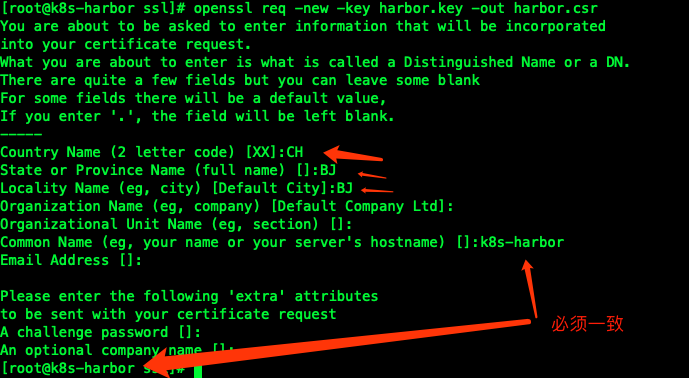
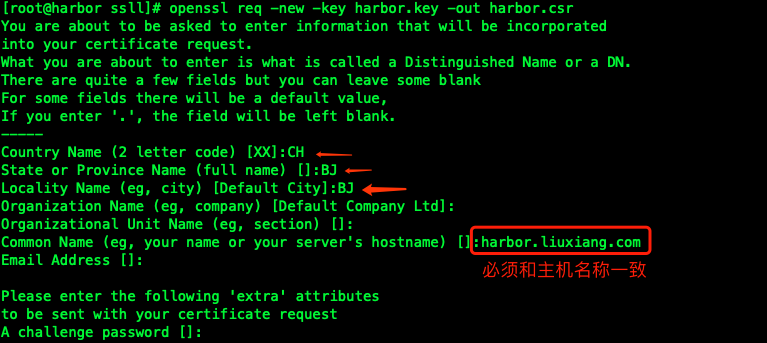
harbor https

Changed region(s): [[0.0, 0.0, 0.9144, 1.0]]

diff --git a/60.SpringCloud-Harbro.md b/60.SpringCloud-Harbro.md
@@ -11,51 +11,51 @@
 4.部署简单:提供在线和离线两种安装工具
 5.LDAP:Harbor 可以集成企业内部已有的 AD/LDAP，用于鉴权认证管理
 ```
-#### 4、在k8s-harbor主机为harbor签发证书
+#### 4、在harbor.liuxiang.com主机为harbor签发证书
 ##### 4.1 生成 ca 证书:
 ```shell script
-[root@k8s-harbor ~]# mkdir /data/ssl -p
-[root@k8s-harbor ~]# cd /data/ssl/
+[root@harbor ~]# mkdir /data/ssl -p
+[root@harbor ~]# cd /data/ssl/
 ```
 ```shell script
 #生成一个 3072 位的 key，也就是私钥
-[root@k8s-harbor ssl]# openssl genrsa -out ca.key 3072
+[root@harbor ssl]# openssl genrsa -out ca.key 3072
 ```
 ```shell script
 #生成一个数字证书 ca.pem，3650 表示证书的有效时间是 10 年，按箭头提示填写即可，没有箭头标注的为空
-[root@k8s-harbor ssl]# openssl req -new -x509 -days 3650 -key ca.key -out ca.pem
+[root@harbor ssl]# openssl req -new -x509 -days 3650 -key ca.key -out ca.pem
 ```
 ![image](https://github.com/498946975/DevOps/blob/master/images/springcloud12.png)
 ##### 4.2 生成域名的证书:
 ```shell script
 #生成一个 3072 位的 key，也就是私钥
-[root@k8s-harbor ssl]# openssl genrsa -out harbor.key 3072
+[root@harbor ssl]# openssl genrsa -out harbor.key 3072
 ```
 ```shell script
 #生成一个证书请求，一会签发证书时需要的，标箭头的按提示填写，没有箭头标注的为空，主机名称必须和安装harbor的主机名称一致
-[root@k8s-harbor ssl]# openssl req -new -key harbor.key -out harbor.csr
+[root@harbor ssl]# openssl req -new -key harbor.key -out harbor.csr
 ```
 ![image](https://github.com/498946975/DevOps/blob/master/images/springcloud13.png)
 ##### 4.3 签发证书
 ```shell script
-[root@k8s-harbor ssl]# openssl x509 -req -in harbor.csr -CA ca.pem -CAkey ca.key -CAcreateserial -out harbor.pem -days 3650 
+[root@harbor ssl]# openssl x509 -req -in harbor.csr -CA ca.pem -CAkey ca.key -CAcreateserial -out harbor.pem -days 3650 
 Signature ok
-subject=/C=CH/ST=BJ/L=BJ/O=Default Company Ltd/CN=k8s-harbor
+subject=/C=CH/ST=BJ/L=BJ/O=Default Company Ltd/CN=harbor.liuxiang.com
 Getting CA Private Key
 您在 /var/spool/mail/root 中有新邮件
-[root@k8s-harbor ssl]# 
+[root@harbor ssl]# 
 ```
 #### 5、查看证书是否有效
 ```shell script
-[root@k8s-harbor ssl]# openssl x509 -noout -text -in harbor.pem
+[root@harbor ssl]# openssl x509 -noout -text -in harbor.pem
 ```
-#### 6、在k8s-harbor上下载harbor的离线安装包
+#### 6、在harbor.liuxiang.com上下载harbor的离线安装包
 ```shell script
 mkdir /data/install -p
 cd /data/install/
 ```
 ```shell script
-https://github.com/goharbor/harbor/releases/download/v2.2.2/harbor-offline-installer-v2.2.2.tgz
+wget https://github.com/goharbor/harbor/releases/download/v2.2.2/harbor-offline-installer-v2.2.2.tgz
 ```
 ```shell script
 tar zxvf harbor-offline-installer-v2.2.2.tgz 
@@ -67,7 +67,7 @@ cp harbor.yml.tmpl harbor.yml
 vim harbor.yml
 ```
 ```yaml
-hostname: k8s-harbor  #修改 hostname，跟上面签发的证书域名保持一致
+hostname: harbor.liuxiang.com  #修改 hostname，跟上面签发的证书域名保持一致
 http:
   port: 80
 https:
@@ -77,12 +77,12 @@ https:
 ```
 #### 8、安装docker-compose并执行安装文件
 ```shell script
-[root@k8s-harbor harbor]# yum install docker-compose -y
-[root@k8s-harbor harbor]# ./install.sh
+[root@harbor harbor]# yum install docker-compose -y
+[root@harbor harbor]# ./install.sh
 ```
 #### 9、查看安装的harbor
 ```shell script
-[root@k8s-harbor harbor]# docker ps -a 
+[root@harbor harbor]# docker ps -a 
 CONTAINER ID   IMAGE                                COMMAND                  CREATED          STATUS                    PORTS                                                                            NAMES
 f69053da5af6   goharbor/harbor-jobservice:v2.2.2    "/harbor/entrypoint.…"   15 minutes ago   Up 15 minutes (healthy)                                                                                    harbor-jobservice
 b82db5cddb3a   goharbor/nginx-photon:v2.2.2         "nginx -g 'daemon of…"   15 minutes ago   Up 15 minutes (healthy)   0.0.0.0:80->8080/tcp, :::80->8080/tcp, 0.0.0.0:443->8443/tcp, :::443->8443/tcp   nginx
@@ -93,7 +93,7 @@ cceda26edd2d   goharbor/harbor-db:v2.2.2            "/docker-entrypoint.…"   1
 59ef2249b9da   goharbor/harbor-registryctl:v2.2.2   "/home/harbor/start.…"   15 minutes ago   Up 15 minutes (healthy)                                                                                    registryctl
 d38f5fcbd8c6   goharbor/redis-photon:v2.2.2         "redis-server /etc/r…"   15 minutes ago   Up 15 minutes (healthy)                                                                                    redis
 28f7720e6757   goharbor/harbor-log:v2.2.2           "/bin/sh -c /usr/loc…"   15 minutes ago   Up 15 minutes (healthy)   127.0.0.1:1514->10514/tcp                                                        harbor-log
-[root@k8s-harbor harbor]# 
+[root@harbor harbor]# 
 ```
 #### 10、修改主机hosts文件，使用https登陆
 ![image](https://github.com/498946975/DevOps/blob/master/images/springcloud14.png)
@@ -105,9 +105,9 @@ Harbor12345
 ```
 #### 12、所有的k8s主机修改配置文件
 ```shell script
-[root@k8s-harbor harbor]# cat /etc/docker/daemon.json 
+[root@harbor harbor]# cat /etc/docker/daemon.json 
 { 
-"insecure-registries":["172.16.120.202","k8s-harbor"], 
+"insecure-registries":["172.16.120.202","harbor.liuxiang.com"], 
 "registry-mirrors": ["https://z0u8mwno.mirror.aliyuncs.com","https://registry.docker-cn.com","https://docker.mirrors.ustc.edu.cn","https://dockerhub.azk8s.cn","http://hub-mirror.c.163.com"],
 "exec-opts":["native.cgroupdriver=systemd"], 
   "log-driver":"json-file",
@@ -125,7 +125,7 @@ systemctl daemon-reload && systemctl restart docker
 ```
 #### 13、k8s所有主机登陆harbor
 ```shell script
-[root@SpringCloud-k8s-master01 ~]# docker login k8s-harbor
+[root@SpringCloud-k8s-master01 ~]# docker login harbor.liuxiang.com
 Username: admin
 Password: 
 WARNING! Your password will be stored unencrypted in /root/.docker/config.json.
@@ -135,7 +135,7 @@ https://docs.docker.com/engine/reference/commandline/login/#credentials-store
 Login Succeeded
 ```
 ```shell script
-[root@SpringCloud-k8s-node01 ~]# docker login k8s-harbor
+[root@SpringCloud-k8s-node01 ~]# docker login harbor.liuxiang.com
 Username: admin
 Password: 
 WARNING! Your password will be stored unencrypted in /root/.docker/config.json.
